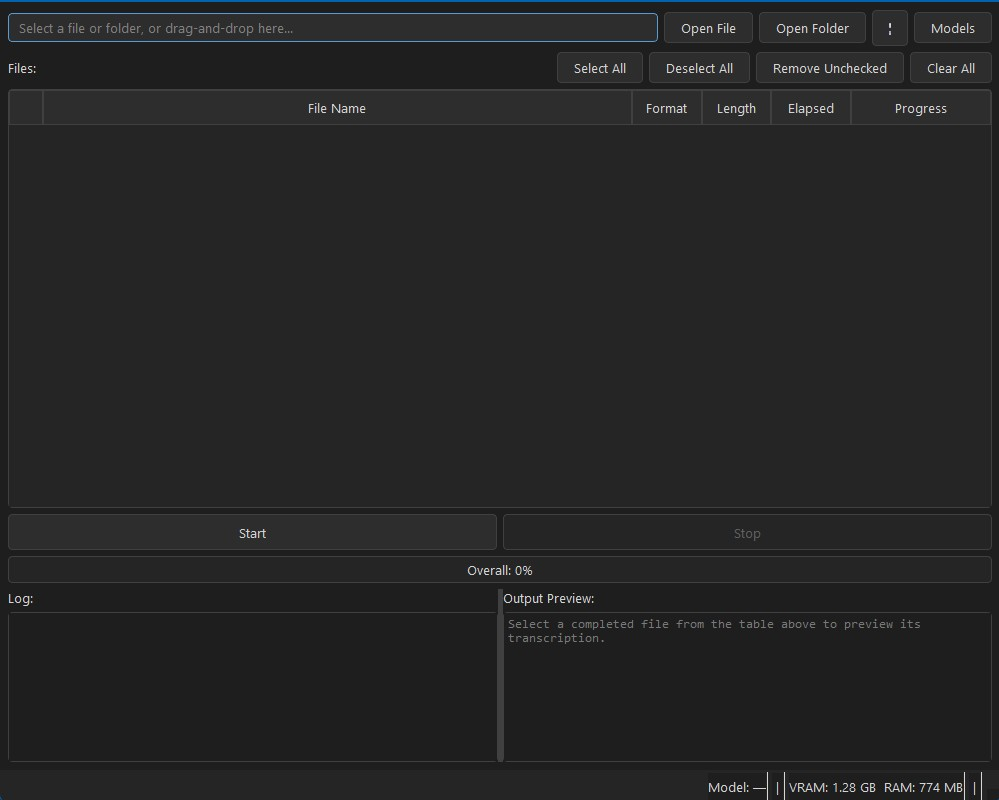
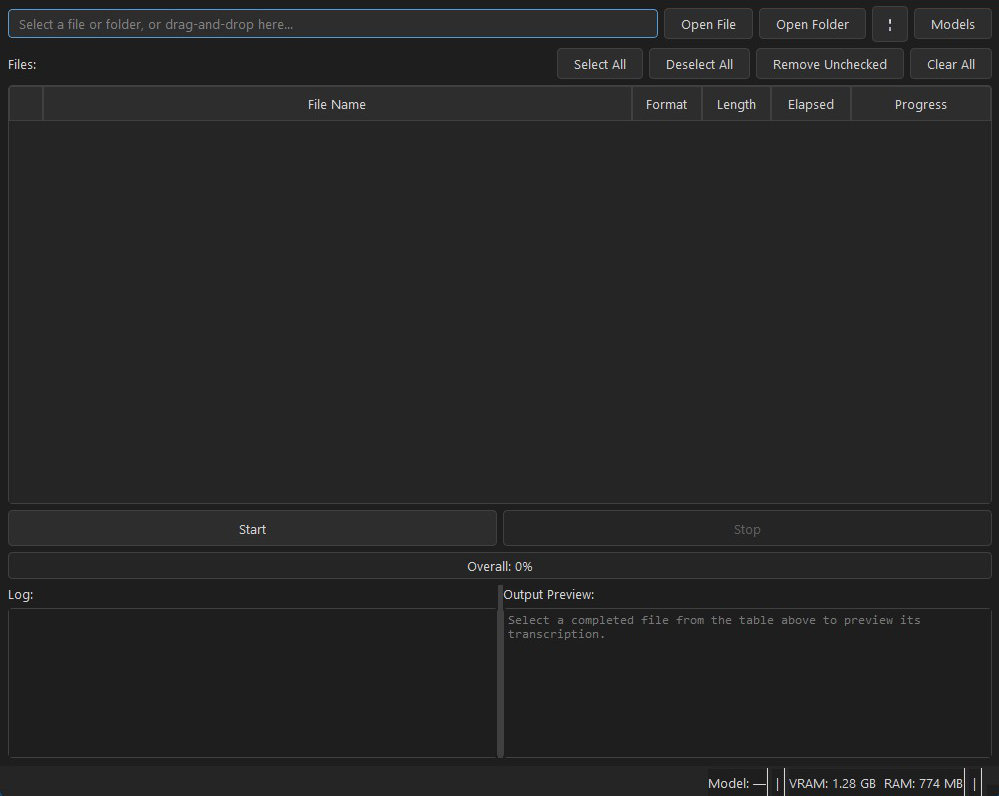
Add files via upload

diff --git a/core/audio_processor.py b/core/audio_processor.py
@@ -1,10 +1,13 @@
+import gc
 import tempfile
 import subprocess
 import traceback
+import warnings
 from pathlib import Path
 
 
-def remove_background_music(audio_path: Path, output_path: Path) -> Path:
+def remove_background_music(audio_path: Path, output_path: Path) -> tuple[Path, Path]:
+    model = mix = sources = vocals = music = None
     try:
         import torch
         import torchaudio
@@ -17,7 +20,11 @@ def remove_background_music(audio_path: Path, output_path: Path) -> Path:
         model.to(device)
         model.eval()
 
-        mix, sr = torchaudio.load(str(audio_path))
+        with warnings.catch_warnings():
+            warnings.filterwarnings(
+                "ignore", message=".*torchaudio.load_with_torchcodec.*"
+            )
+            mix, sr = torchaudio.load(str(audio_path))
 
         if sr != model.samplerate:
             mix = torchaudio.functional.resample(mix, sr, model.samplerate)
@@ -35,75 +42,107 @@ def remove_background_music(audio_path: Path, output_path: Path) -> Path:
             )
 
         vocals_idx = model.sources.index("vocals")
-        vocals = sources[0, vocals_idx].cpu().numpy()
-        vocals = vocals.mean(axis=0)
+        vocals = sources[0, vocals_idx].cpu().numpy().mean(axis=0)
+
+        music_gpu = sources.sum(dim=1)[0] - sources[0, vocals_idx]
+        music = music_gpu.cpu().numpy().mean(axis=0)
+        del music_gpu
 
         output_path.parent.mkdir(parents=True, exist_ok=True)
         sf.write(str(output_path), vocals, model.samplerate)
-        return output_path
+
+        music_path = output_path.with_name(output_path.stem + "_music.wav")
+        sf.write(str(music_path), music, model.samplerate)
+
+        return output_path, music_path
     except Exception as e:
         tb = traceback.format_exc()
         raise RuntimeError(
             f"Demucs background music removal failed: {e}\n\nTraceback:\n{tb}"
         ) from e
+    finally:
+        del model, mix, sources, vocals, music
+        gc.collect()
+        try:
+            import torch
+            if torch.cuda.is_available():
+                torch.cuda.empty_cache()
+        except Exception:
+            pass
 
 
 def run_silero_vad(audio_path: Path, threshold: float = 0.5) -> list[dict]:
     from silero_vad import load_silero_vad, get_speech_timestamps, read_audio
+    model = wav = None
     try:
-        model = load_silero_vad(onnx=False)
-    except Exception as e:
-        raise RuntimeError(f"Silero VAD failed to load: {e}") from e
-    wav = read_audio(str(audio_path), sampling_rate=16000)
-    speech_timestamps = get_speech_timestamps(
-        wav, model, threshold=threshold, sampling_rate=16000,
-    )
-    segments = []
-    for ts in speech_timestamps:
-        segments.append({
-            "start": ts["start"] / 16000.0,
-            "end": ts["end"] / 16000.0,
-        })
-    return segments
+        try:
+            model = load_silero_vad(onnx=False)
+        except Exception as e:
+            raise RuntimeError(f"Silero VAD failed to load: {e}") from e
+        wav = read_audio(str(audio_path), sampling_rate=16000)
+        speech_timestamps = get_speech_timestamps(
+            wav, model, threshold=threshold, sampling_rate=16000,
+        )
+        segments = []
+        for ts in speech_timestamps:
+            segments.append({
+                "start": ts["start"] / 16000.0,
+                "end": ts["end"] / 16000.0,
+            })
+        return segments
+    finally:
+        del model, wav
+        gc.collect()
 
 
 def run_diarization(audio_path: Path, hf_token: str) -> list[dict]:
     from pyannote.audio import Pipeline
+    pipeline = None
     try:
-        pipeline = Pipeline.from_pretrained(
-            "pyannote/speaker-diarization-3.1",
-            use_auth_token=hf_token,
-        )
-    except OSError as e:
-        msg = str(e)
-        if "local_files_only" in msg or "outgoing traffic" in msg:
-            raise RuntimeError(
-                "Cannot download diarization model \u2014 no internet connection or "
-                "HuggingFace Hub is unreachable. Connect to the internet first, "
-                "or ensure the model is already cached locally."
-            ) from e
-        raise
-    import torch
-    device = torch.device("cuda" if torch.cuda.is_available() else "cpu")
-    pipeline.to(device)
-    diarization = pipeline(str(audio_path))
-    segments = []
-    try:
-        for turn, _, speaker in diarization.itertracks(yield_label=True):
-            segments.append({
-                "start": turn.start,
-                "end": turn.end,
-                "speaker": speaker,
-            })
-    except TypeError:
-        for turn, _, _ in diarization.itertracks():
-            label = diarization.argmax(turn) if hasattr(diarization, "argmax") else "speaker"
-            segments.append({
-                "start": turn.start,
-                "end": turn.end,
-                "speaker": str(label),
-            })
-    return segments
+        try:
+            pipeline = Pipeline.from_pretrained(
+                "pyannote/speaker-diarization-3.1",
+                use_auth_token=hf_token,
+            )
+        except OSError as e:
+            msg = str(e)
+            if "local_files_only" in msg or "outgoing traffic" in msg:
+                raise RuntimeError(
+                    "Cannot download diarization model \u2014 no internet connection or "
+                    "HuggingFace Hub is unreachable. Connect to the internet first, "
+                    "or ensure the model is already cached locally."
+                ) from e
+            raise
+        import torch
+        device = torch.device("cuda" if torch.cuda.is_available() else "cpu")
+        pipeline.to(device)
+        diarization = pipeline(str(audio_path))
+        segments = []
+        try:
+            for turn, _, speaker in diarization.itertracks(yield_label=True):
+                segments.append({
+                    "start": turn.start,
+                    "end": turn.end,
+                    "speaker": speaker,
+                })
+        except TypeError:
+            for turn, _, _ in diarization.itertracks():
+                label = diarization.argmax(turn) if hasattr(diarization, "argmax") else "speaker"
+                segments.append({
+                    "start": turn.start,
+                    "end": turn.end,
+                    "speaker": str(label),
+                })
+        return segments
+    finally:
+        del pipeline
+        gc.collect()
+        try:
+            import torch
+            if torch.cuda.is_available():
+                torch.cuda.empty_cache()
+        except Exception:
+            pass
 
 
 def apply_vad_segments(audio_path: Path, segments: list[dict],

diff --git a/workers/transcription_worker.py b/workers/transcription_worker.py
@@ -1,3 +1,5 @@
+import gc
+import shutil
 import tempfile
 from pathlib import Path
 from PyQt6.QtCore import QThread, pyqtSignal
@@ -23,7 +25,7 @@ class TranscriptionWorker(QThread):
     finished_all = pyqtSignal()
     log_message = pyqtSignal(str)
 
-    def __init__(self, files: list[Path], settings: dict, model_manager):
+    def __init__(self, files: list[tuple[int, Path]], settings: dict, model_manager):
         super().__init__()
         self.files = files
         self.settings = settings
@@ -48,30 +50,30 @@ class TranscriptionWorker(QThread):
         stopped = False
 
         try:
-            for idx, file_path in enumerate(self.files):
+            for worker_idx, (table_idx, file_path) in enumerate(self.files):
                 if self._stop_requested:
                     stopped = True
-                    for rem_idx in range(idx, total):
-                        self.file_completed.emit(rem_idx, "Skipped")
+                    for rem_idx in range(worker_idx, total):
+                        self.file_completed.emit(self.files[rem_idx][0], "Skipped")
                     self.overall_progress.emit(1.0)
                     break
 
-                self.file_started.emit(idx)
+                self.file_started.emit(table_idx)
                 try:
-                    self._process_file(idx, file_path, transcriber)
-                    self.file_completed.emit(idx, "Done")
+                    self._process_file(table_idx, file_path, transcriber)
+                    self.file_completed.emit(table_idx, "Done")
                 except _StopRequested:
-                    self.file_error.emit(idx, "Stopped by user")
+                    self.file_error.emit(table_idx, "Stopped by user")
                     stopped = True
-                    for rem_idx in range(idx + 1, total):
-                        self.file_completed.emit(rem_idx, "Skipped")
+                    for rem_idx in range(worker_idx + 1, total):
+                        self.file_completed.emit(self.files[rem_idx][0], "Skipped")
                     self.overall_progress.emit(1.0)
                     break
                 except Exception as e:
-                    self.file_error.emit(idx, str(e))
+                    self.file_error.emit(table_idx, str(e))
                     self.log_message.emit(f"  Error: {e}")
 
-                self.overall_progress.emit((idx + 1) / total)
+                self.overall_progress.emit((worker_idx + 1) / total)
         finally:
             self._release_active_model()
             if self.settings.get("unload_after_batch", True) and not self.model_manager.busy():
@@ -97,6 +99,8 @@ class TranscriptionWorker(QThread):
 
         with tempfile.TemporaryDirectory() as tmp_dir:
             audio_path = file_path
+            vocal_path = None
+            music_path = None
 
             if is_video_file(file_path):
                 self._check_stop()
@@ -107,8 +111,9 @@ class TranscriptionWorker(QThread):
             if self.settings.get("background_music_removal"):
                 self._check_stop()
                 self.log_message.emit("  Removing background music...")
-                vocal_path = Path(tmp_dir) / f"{file_path.stem}_vocals.wav"
-                audio_path = remove_background_music(audio_path, vocal_path)
+                tmp_vocal = Path(tmp_dir) / f"{file_path.stem}_vocals.wav"
+                vocal_path, music_path = remove_background_music(audio_path, tmp_vocal)
+                audio_path = vocal_path
 
             if self.settings.get("voice_detection_filter"):
                 self._check_stop()
@@ -118,6 +123,7 @@ class TranscriptionWorker(QThread):
                     if segments_vad:
                         filtered = Path(tmp_dir) / f"{file_path.stem}_filtered.wav"
                         audio_path = apply_vad_segments(audio_path, segments_vad, filtered)
+                    del segments_vad
                 except Exception as e:
                     self.log_message.emit(f"  Voice detection filter failed: {e}")
                     self.log_message.emit("  Continuing without VAD filtering...")
@@ -141,6 +147,7 @@ class TranscriptionWorker(QThread):
                 try:
                     diar_segments = run_diarization(audio_path, self.settings["hf_token"])
                     segments = self._merge_diarization(segments, diar_segments)
+                    del diar_segments
                 except _StopRequested:
                     raise
                 except Exception as e:
@@ -159,8 +166,19 @@ class TranscriptionWorker(QThread):
                                self.settings.get("include_timestamps", True))
             self._completed_outputs[idx] = output_path
             self.log_message.emit(f"  Saved: {output_path}")
+            del segments
+
+            if self.settings.get("save_background_removal_tracks") and vocal_path is not None:
+                dest_vocal = file_path.parent / f"{file_path.stem}_vocals.wav"
+                shutil.copy2(str(vocal_path), str(dest_vocal))
+                self.log_message.emit(f"  Saved vocals track: {dest_vocal}")
+                if music_path is not None:
+                    dest_music = file_path.parent / f"{file_path.stem}_music.wav"
+                    shutil.copy2(str(music_path), str(dest_music))
+                    self.log_message.emit(f"  Saved music track: {dest_music}")
 
         self.progress.emit(idx, 1.0)
+        gc.collect()
 
     def _transcribe_with_release(self, transcriber, audio_path, file_progress):
         series = self.settings["model_series"]

diff --git a/core/model_manager.py b/core/model_manager.py
@@ -136,17 +136,20 @@ class ModelManager(QObject):
     @classmethod
     def _ensure_model_local(cls, model_name: str) -> Path:
         from huggingface_hub import snapshot_download
+        from tqdm.auto import tqdm as _tqdm
+
+        class _NoTqdm(_tqdm):
+            def __init__(self, *a, **kw):
+                super().__init__(*a, **kw, disable=True)
+
         repo_id = cls._resolve_faster_whisper_repo_id(model_name)
         local_dir = cls._local_model_dir(repo_id)
         local_dir.mkdir(parents=True, exist_ok=True)
-        try:
-            snapshot_download(
-                repo_id=repo_id,
-                local_dir=str(local_dir),
-                local_dir_use_symlinks=False,
-            )
-        except TypeError:
-            snapshot_download(repo_id=repo_id, local_dir=str(local_dir))
+        snapshot_download(
+            repo_id=repo_id,
+            local_dir=str(local_dir),
+            tqdm_class=_NoTqdm,
+        )
         return local_dir
 
     def unload_all(self):

diff --git a/gui/file_table.py b/gui/file_table.py
@@ -95,6 +95,13 @@ class FileTable(QTableWidget):
                 selected.append(self._files[i])
         return selected
 
+    def get_selected_files_with_indices(self) -> list[tuple[int, Path]]:
+        selected = []
+        for i, cb in enumerate(self._checkboxes):
+            if cb.isChecked():
+                selected.append((i, self._files[i]))
+        return selected
+
     def get_all_files(self) -> list[Path]:
         return list(self._files)
 

diff --git a/gui/settings_dialog.py b/gui/settings_dialog.py
@@ -255,6 +255,10 @@ class SettingsDialog(QDialog):
         self.demucs_cb.setChecked(self.settings.get("background_music_removal", False))
         layout.addWidget(self.demucs_cb)
 
+        self.save_tracks_cb = QCheckBox("Save separated audio tracks (vocals & music) next to source files")
+        self.save_tracks_cb.setChecked(self.settings.get("save_background_removal_tracks", False))
+        layout.addWidget(self.save_tracks_cb)
+
         self.voice_filter_cb = QCheckBox("Voice detection filter (Silero VAD)")
         self.voice_filter_cb.setChecked(self.settings.get("voice_detection_filter", False))
         layout.addWidget(self.voice_filter_cb)
@@ -370,6 +374,7 @@ class SettingsDialog(QDialog):
 
         self.diarize_cb.setChecked(self.settings.get("extract_speakers", False))
         self.demucs_cb.setChecked(self.settings.get("background_music_removal", False))
+        self.save_tracks_cb.setChecked(self.settings.get("save_background_removal_tracks", False))
         self.voice_filter_cb.setChecked(self.settings.get("voice_detection_filter", False))
 
         device = self.settings.get("device", "auto")
@@ -404,6 +409,7 @@ class SettingsDialog(QDialog):
         self.settings["include_timestamps"] = self.timestamps_cb.isChecked()
         self.settings["extract_speakers"] = self.diarize_cb.isChecked()
         self.settings["background_music_removal"] = self.demucs_cb.isChecked()
+        self.settings["save_background_removal_tracks"] = self.save_tracks_cb.isChecked()
         self.settings["voice_detection_filter"] = self.voice_filter_cb.isChecked()
         self.settings["initial_prompt"] = self.prompt_edit.toPlainText().strip()
         self.settings["device"] = self.device_combo.currentText()

diff --git a/gui/main_window.py b/gui/main_window.py
@@ -441,7 +441,7 @@ class MainWindow(QMainWindow):
         dlg.exec()
 
     def _start_processing(self):
-        files = self.file_table.get_selected_files()
+        files = self.file_table.get_selected_files_with_indices()
         if not files:
             self._log("No files selected for processing")
             return

diff --git a/config.py b/config.py
@@ -116,6 +116,7 @@ DEFAULT_SETTINGS = {
     "vad_threshold": 0.5,
     "extract_speakers": False,
     "background_music_removal": False,
+    "save_background_removal_tracks": False,
     "voice_detection_filter": False,
     "device": "auto",
     "compute_type": "float16",